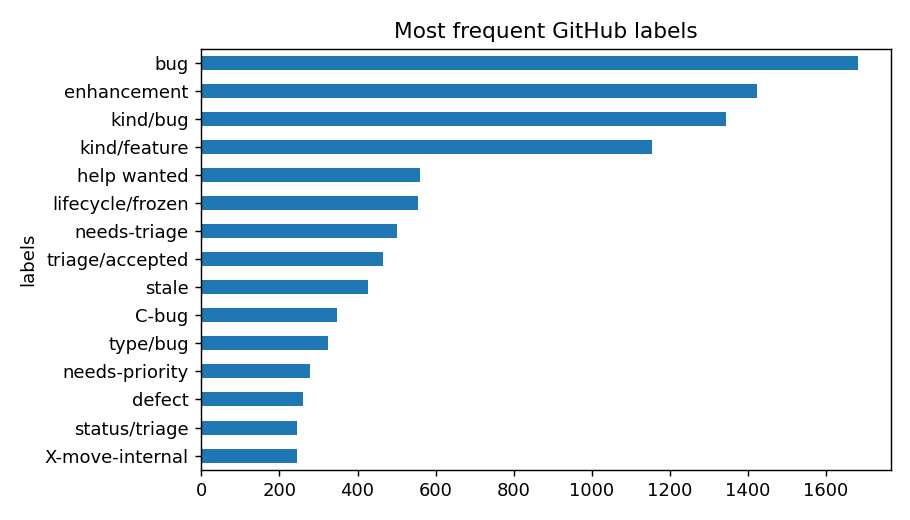
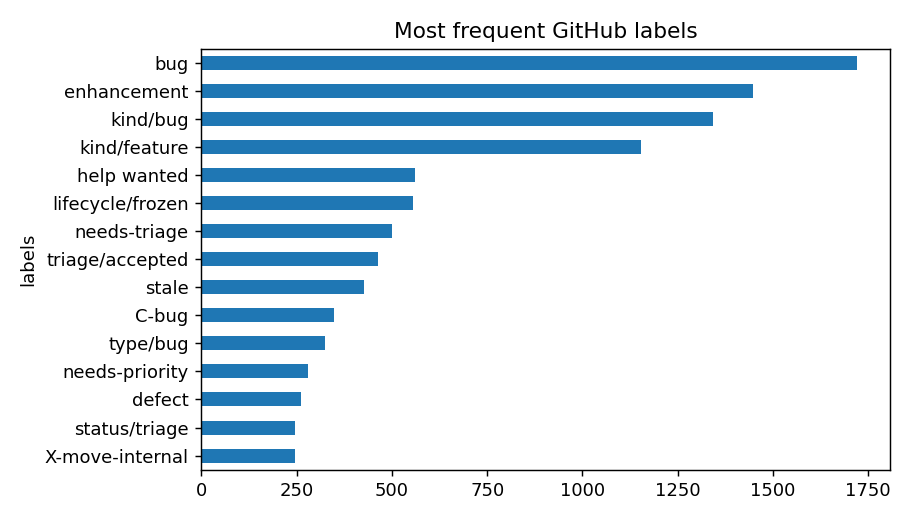
docs(report): update EDA distribution plots and summary

diff --git a/report/eda/summary.md b/report/eda/summary.md
@@ -1,21 +1,21 @@
 # EDA summary
 
-- issues in DB: 21224 (closed 4799, open 16425)
-- repos: 125; languages: {'Go': 68, 'Python': 35, 'Rust': 9, 'JavaScript': 6, 'TypeScript': 4, 'Shell': 1, 'Jinja': 1, 'C++': 1}
-- labelled (merged PR) issues used for training: 3991 in 120 repos
-- duplicate ids: 0; duplicate titles within a repo: 53
+- issues in DB: 21330 (closed 4813, open 16517)
+- repos: 127; languages: {'Go': 68, 'Python': 36, 'Rust': 10, 'JavaScript': 6, 'TypeScript': 4, 'Shell': 1, 'Jinja': 1, 'C++': 1}
+- labelled (merged PR) issues used for training: 4000 in 121 repos
+- duplicate ids: 0; duplicate titles within a repo: 54
 - missing share: {'body': 0.0, 'labels': 0.0, 'first_response_hours': 0.864, 'pr_files': 0.774, 'pr_review_comments': 0.774}
 - class distribution: {'Easy': 0.4, 'Medium': 0.398, 'Hard': 0.202}  (imbalance ratio max/min = 1.98)
 - 'good first issue' share: open 0.006, labelled 0.027
 - top repo holds 5.3% of labelled issues (repo skew)
-- features most correlated with effort: kw_big (+0.15), n_labels (+0.13), repo_age_days (+0.11), has_contributing (+0.09), has_link (+0.08)
-- maintainer first reply: median 13.3 h, 90th pct 591 h (n=2896)
-- extreme body-length outliers (3xIQR): 135; kept (real issues), log-scaled in plots
+- features most correlated with effort: kw_big (+0.15), n_labels (+0.13), repo_age_days (+0.10), has_contributing (+0.09), has_link (+0.08)
+- maintainer first reply: median 13.1 h, 90th pct 591 h (n=2905)
+- extreme body-length outliers (3xIQR): 136; kept (real issues), log-scaled in plots
 - difficulty split by 'good first issue' label:
 difficulty   Easy  Medium   Hard
 is_gfi                          
-0           0.399   0.399  0.202
+0           0.399   0.399  0.203
 1           0.450   0.376  0.174
-- top terms Easy: github, https, com, version, test, file, error, python, mocha, bug
+- top terms Easy: github, https, com, version, test, file, error, python, bug, mocha
 - top terms Medium: https, github, com, version, error, file, python, bug, test, cli
 - top terms Hard: goreleaser, github, audit, https, com, pylint, 628c889d7f2a34066649833be419fdb9abe01174, version, error, blob
